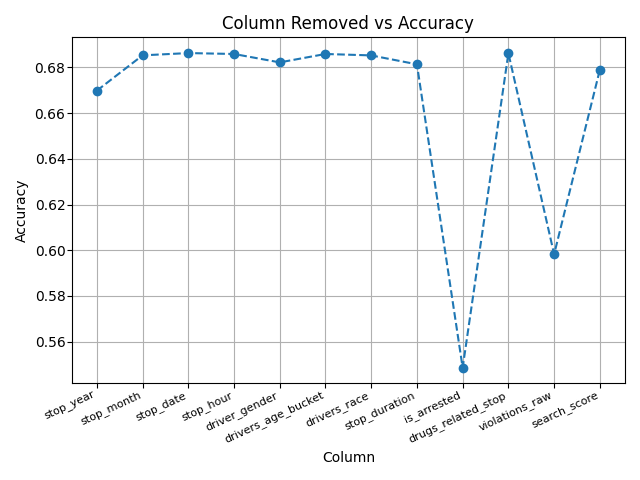
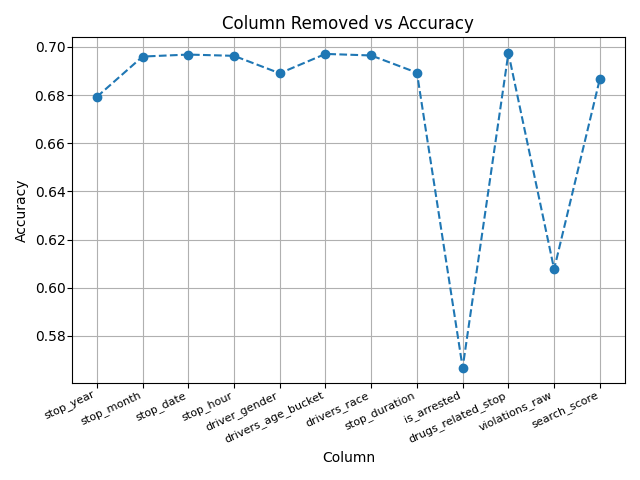
Depth Increase to check the results

diff --git a/project.py b/project.py
@@ -645,7 +645,7 @@ def random_forest_visualizaton(random_forest,type):
 def decision_tree(X_train, X_test, y_train, y_test, df_clean):
     # Set the parameters you want to evaluate
 
-    params = {'max_leaf_nodes': list(range(2, 30)), 'min_samples_split': [2, 3]}
+    params = {'max_leaf_nodes': list(range(2, 40)), 'min_samples_split': [2, 3]}
 
     # Create the GridSearch object for the Random Forest classifier passing the parameters
     grid_search_cv = GridSearchCV(DecisionTreeClassifier(), params, verbose=1, cv=3)
@@ -691,7 +691,7 @@ def decision_tree(X_train, X_test, y_train, y_test, df_clean):
 
     
     # The list of depth which are considered and accuracies are calculated
-    list_depths = list(range(1,17))
+    list_depths = list(range(1,40))
 
     list_accuracy = []
 
@@ -889,7 +889,7 @@ if __name__ == "__main__":
 
     # Decision Trees
     # Commented out since still a work in progress
-    print("decision_tree without resampling data")
+    # print("decision_tree without resampling data")
     # decision_tree_results = decision_tree(X_train_orig, X_test_orig, y_train_orig, y_test_orig, dataframe_orig)
 
     # Displaying results from running decision tree
@@ -898,11 +898,11 @@ if __name__ == "__main__":
     # Decision Trees
     # Commented out since still a work in progress
     print("decision_tree with resampling data")
-    # decision_tree_results = decision_tree(X_train, X_test, y_train, y_test, dataframe)
+    decision_tree_results = decision_tree(X_train, X_test, y_train, y_test, dataframe)
 
     
     # Displaying results from running decision tree
-    # decision_tree_visualizaton(decision_tree_results, "with_resampling")
+    decision_tree_visualizaton(decision_tree_results, "with_resampling")
 
 
     # Random Forest
@@ -932,7 +932,7 @@ if __name__ == "__main__":
     #Logistic Regression
     # Commented out since still a work in progress
     # print("Logistic Regression")
-    logistic_regression_results = logistic_regression(X_train_orig, X_test_orig, y_train_orig, y_test_orig, dataframe_orig , 1)
+    # logistic_regression_results = logistic_regression(X_train_orig, X_test_orig, y_train_orig, y_test_orig, dataframe_orig , 1)
      #RESULTS OF LOGISTIC REGRESSION:
     # {'None': 0.9280428913411332, 'stop_year': 0.9279991839879596, 'stop_month': 0.9281448557161394,
     # 'stop_date': 0.928086581720577, 'stop_hour': 0.9280574569226638, 'driver_gender': 0.9279554893650832, 
@@ -942,7 +942,7 @@ if __name__ == "__main__":
     # logistic_regression_visualization(logistic_regression_results,1)
 
     #RESAMPLING
-    logistic_regression_results_resampled = logistic_regression(X_train, X_test, y_train, y_test, dataframe , 1)
+    # logistic_regression_results_resampled = logistic_regression(X_train, X_test, y_train, y_test, dataframe , 1)
     # logistic_regression_results_resampled {'None': 0.7005750000000001, 'stop_year': 0.677275, 'stop_month': 0.6999749999999999, 
     # 'stop_date': 0.6905749999999999, 'stop_hour': 0.6992, 'driver_gender': 0.689575, 'drivers_age_bucket': 0.698325,
     # 'drivers_race': 0.696775, 'stop_duration': 0.68965, 'is_arrested': 0.566025, 'drugs_related_stop': 0.69585, 
